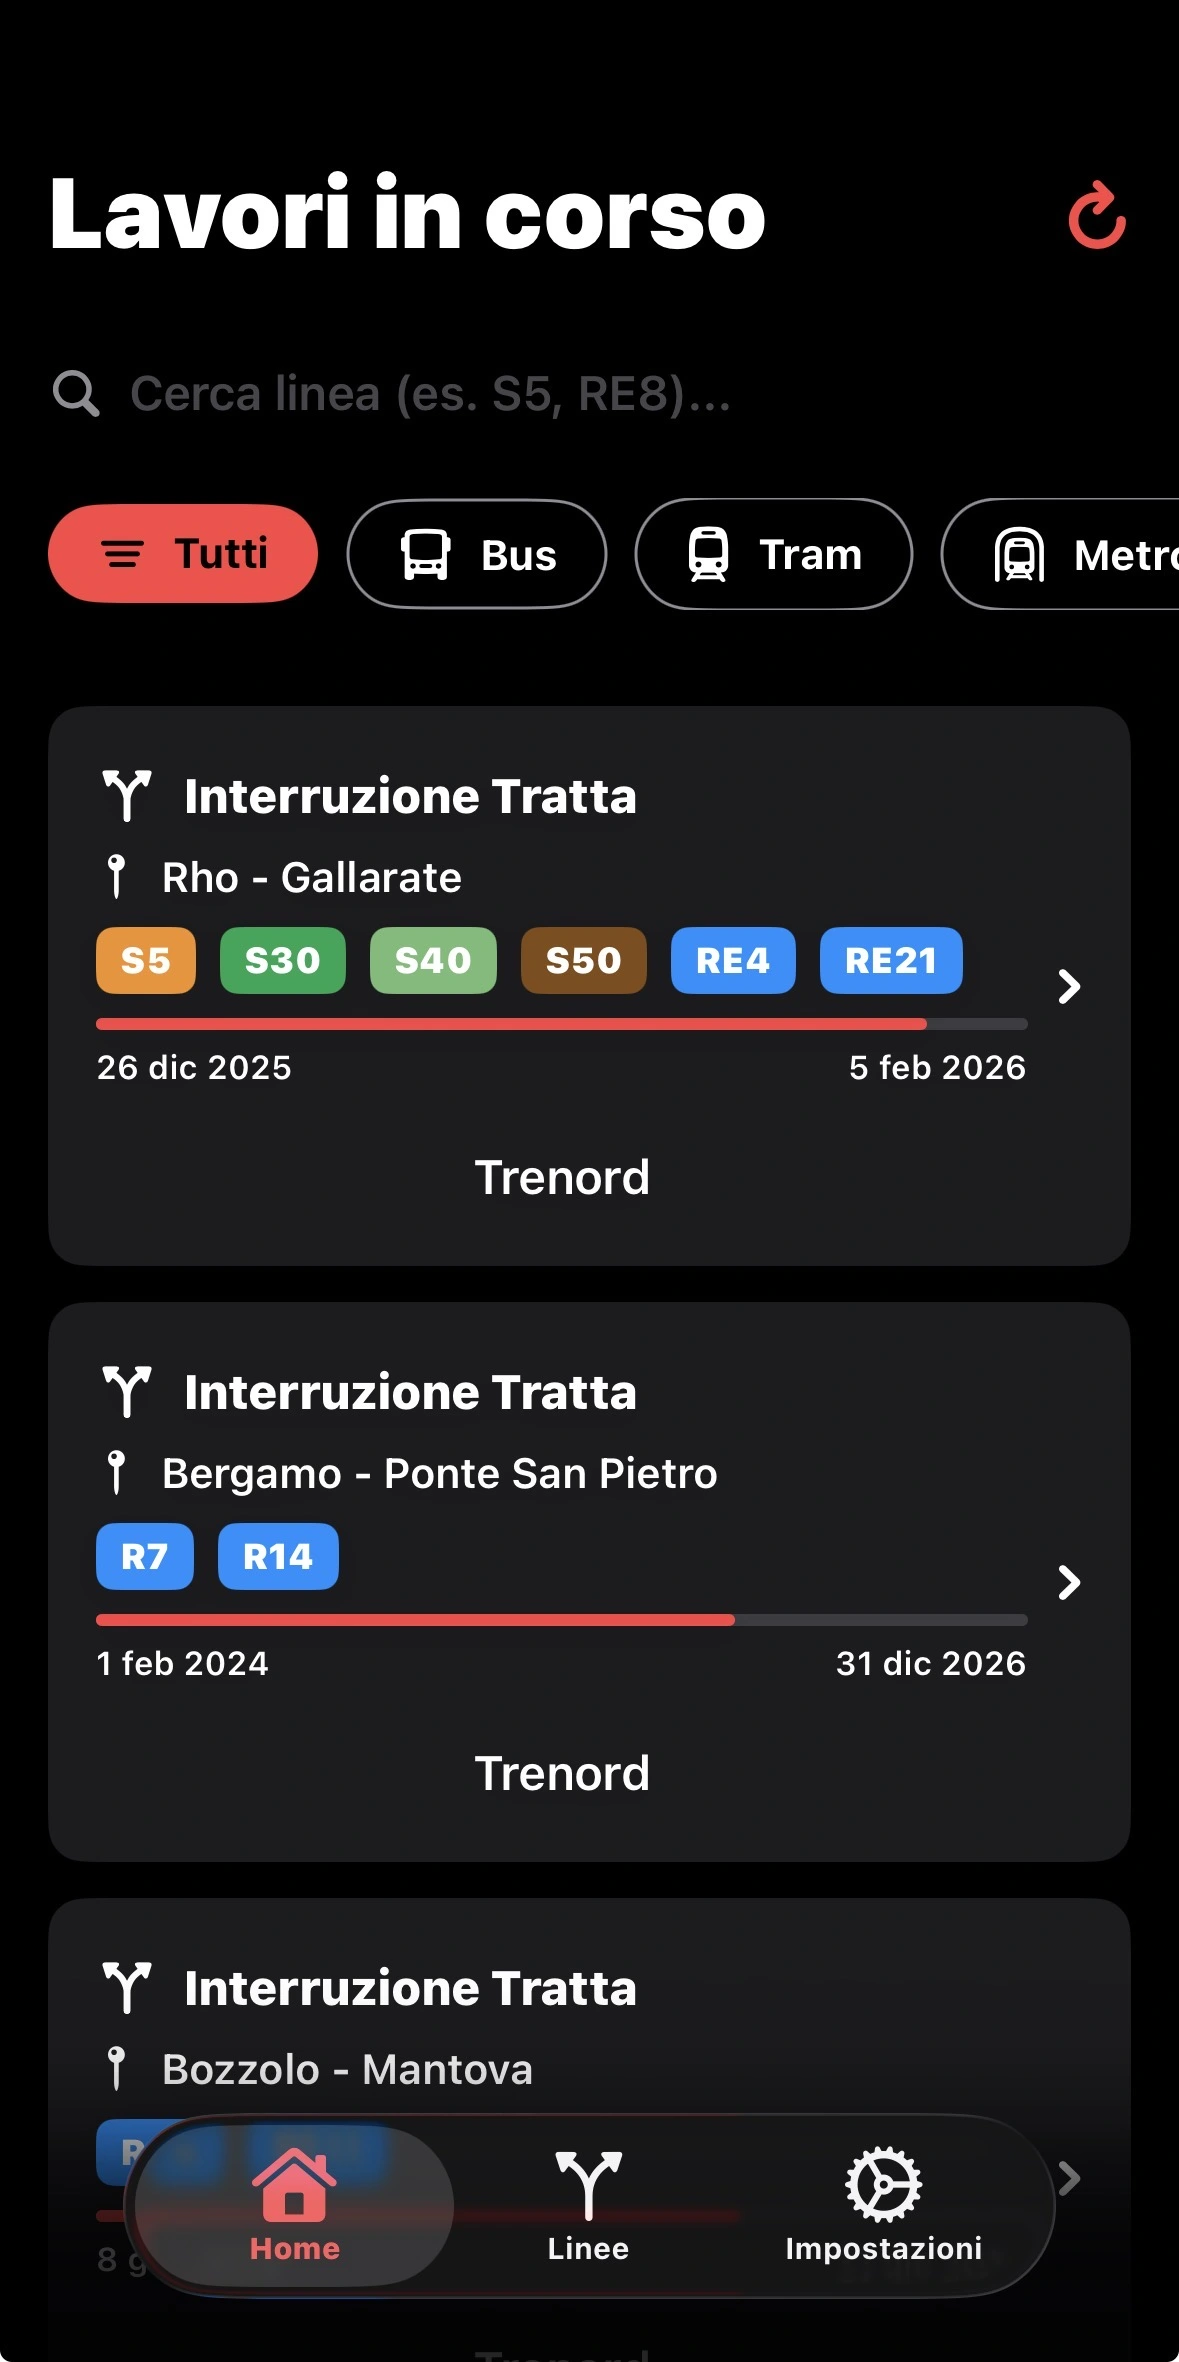
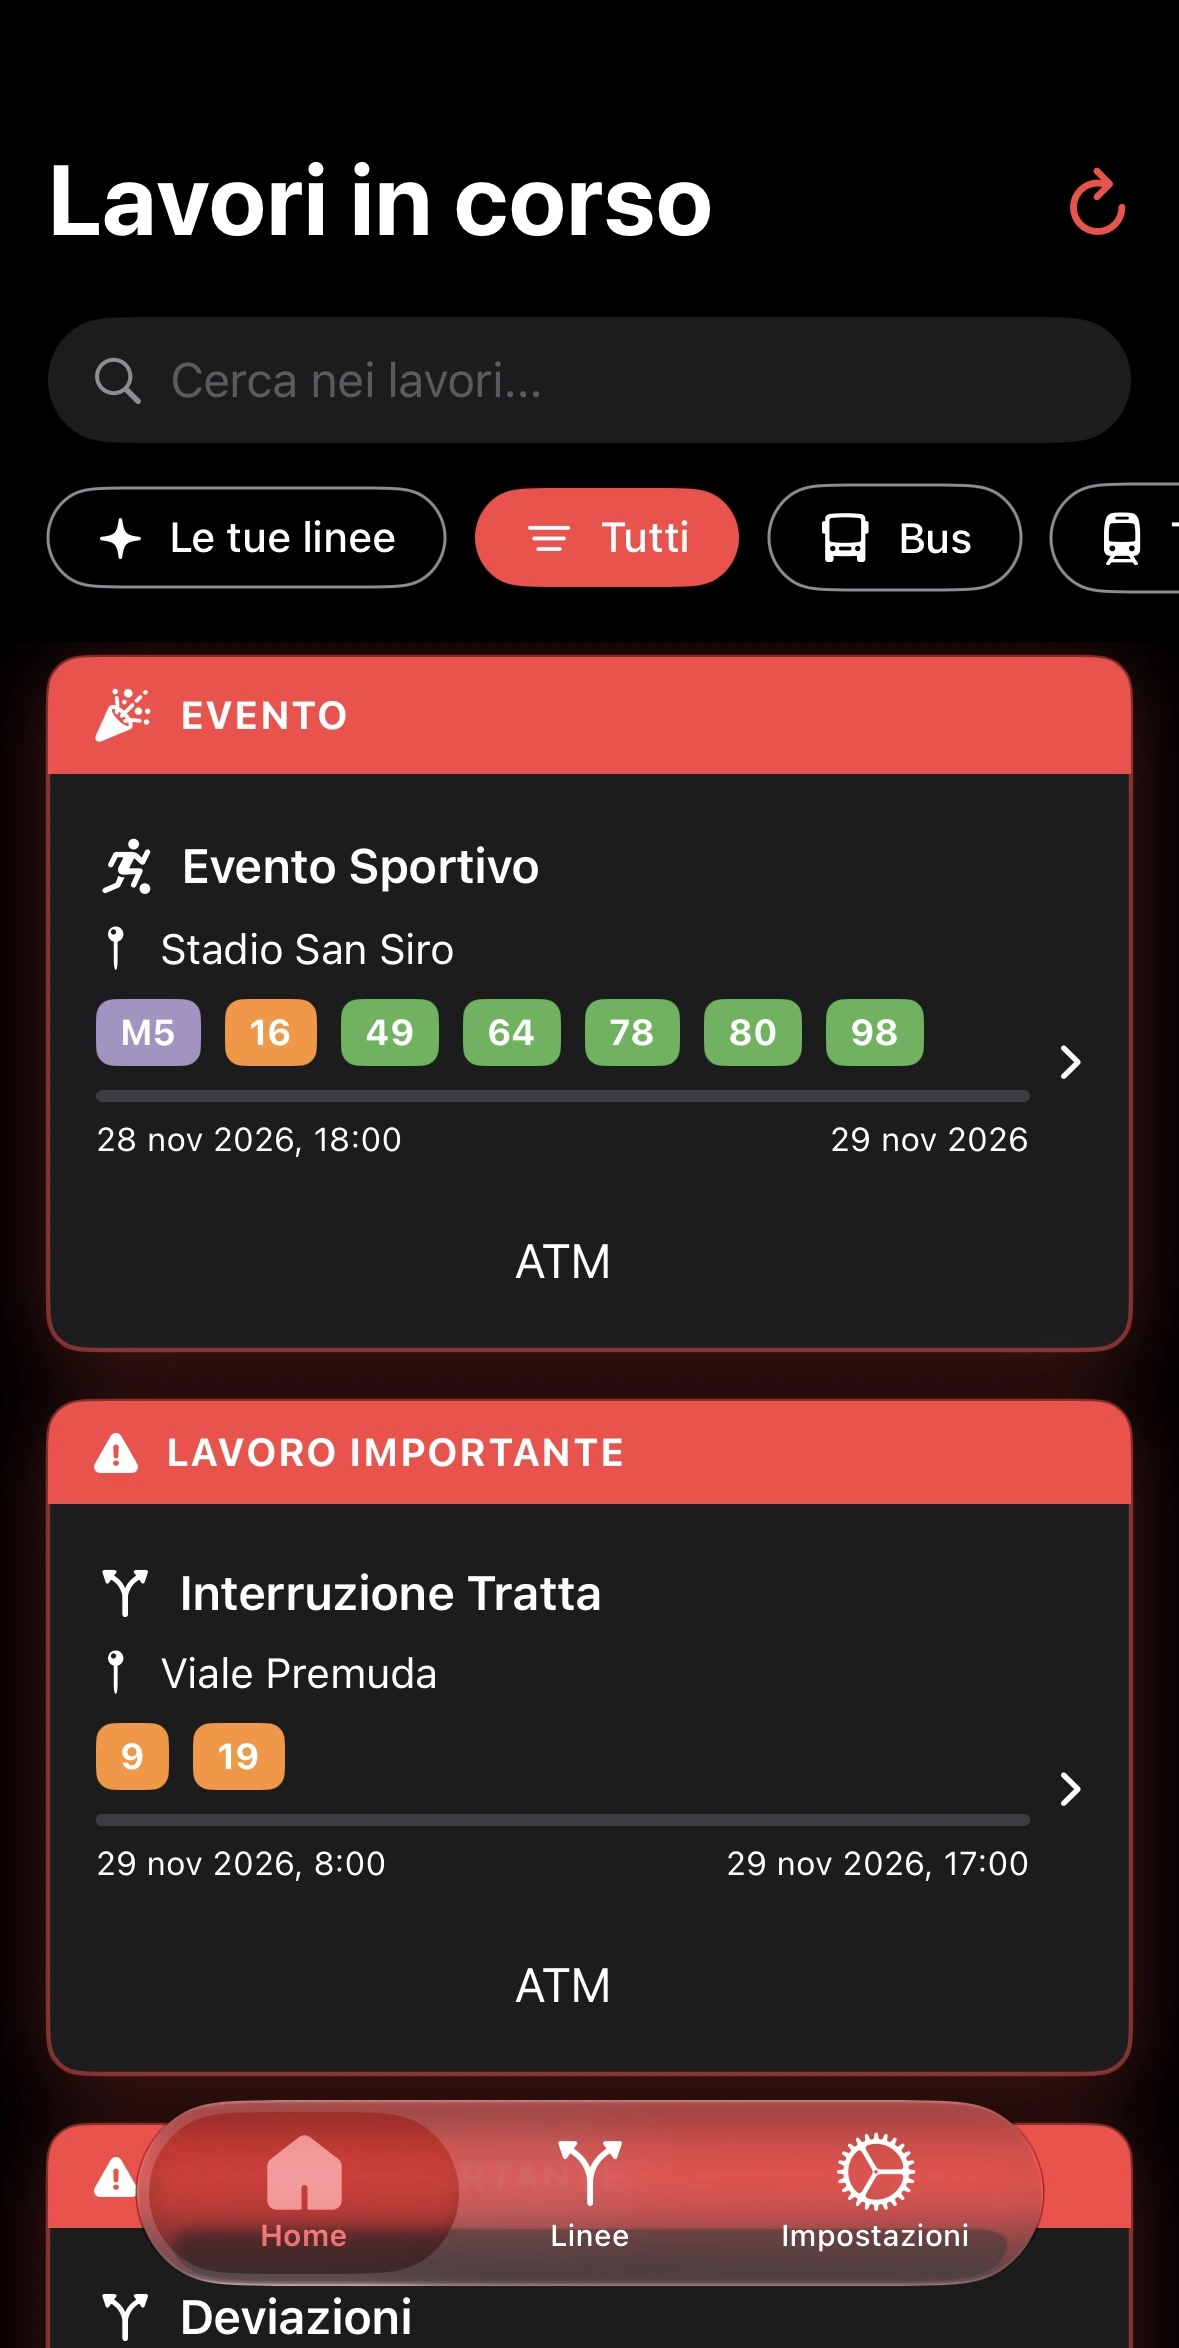
fix: fixing images
* fixed product images

diff --git a/index.html b/index.html
@@ -442,7 +442,7 @@
   <footer id="footer" class="footer position-relative light-background">
     <div class="container">
       <h3 class="sitename">Andrea Filice</h3>
-      <p>Founder Play Epik, Incorporation.</p>
+      <p>Founder <a href="https://lavorami.it">LavoraMi</a>.</p>
       <div class="social-links d-flex justify-content-center">
         <a href="https://x.com/andre_filic" title="X"><i class="bi bi-twitter-x"></i></a>
         <a href="https://www.tiktok.com/@lavoramiapp" title="TikTok"><i class="bi bi-tiktok"></i></a>
@@ -452,7 +452,7 @@
       <div class="container">
         <div class="copyright">
           <span>Copyright</span> <strong class="px-1 sitename">Andrea Filice</strong> <span>All Rights Reserved</span><br>
-          <span>Template by:<strong class="px-1 sitename">Bootstrap made</strong>,for my purpose only.</span>
+          <span>Template by:<strong class="px-1 sitename">Bootstrap made</strong>, for my purpose only.</span>
         </div>
         <div class="credits">
           <!-- All the links in the footer should remain intact. -->
